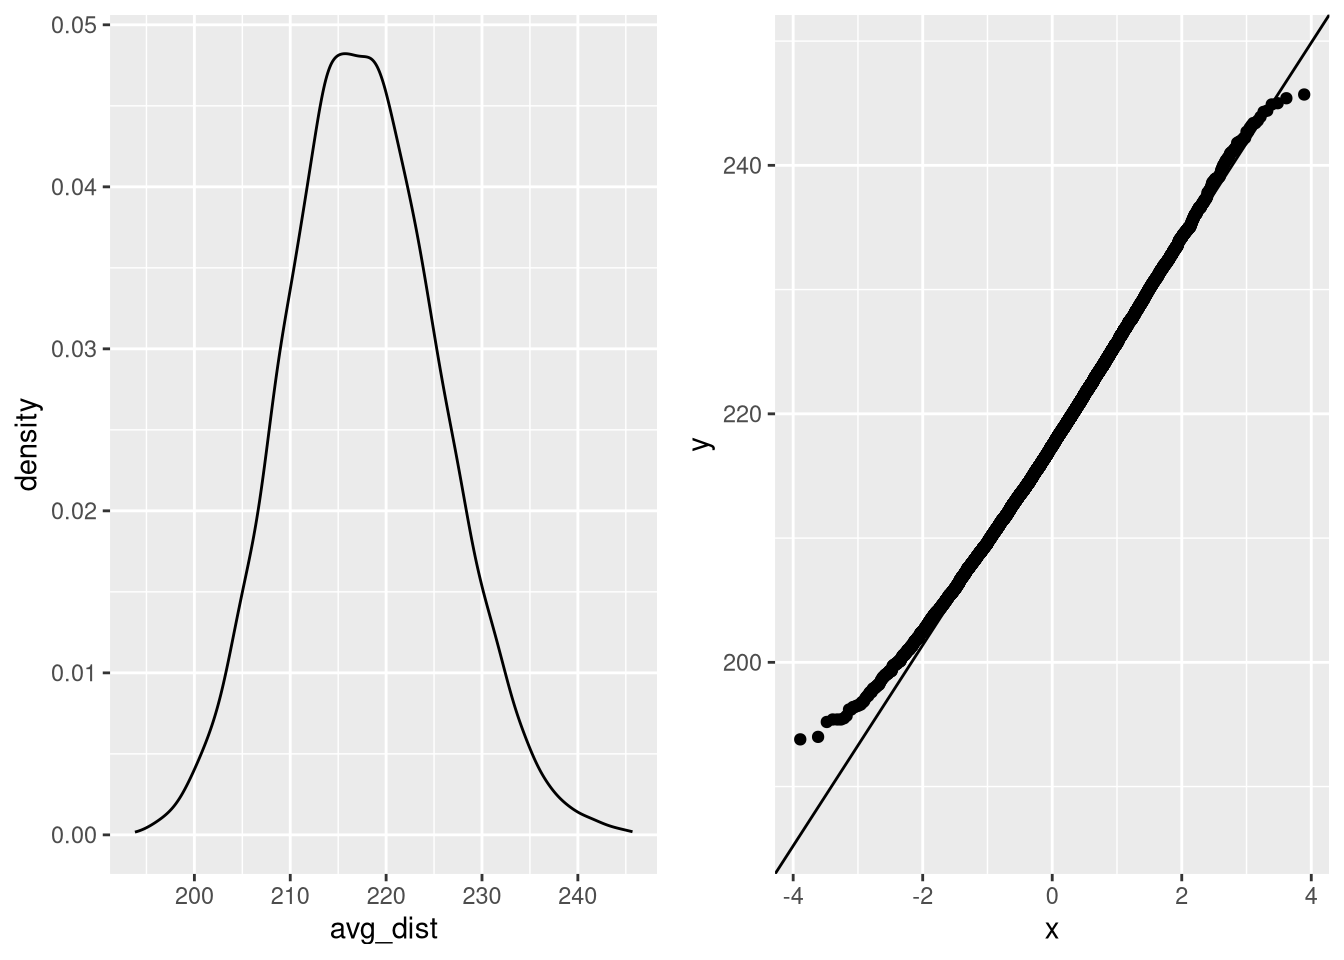
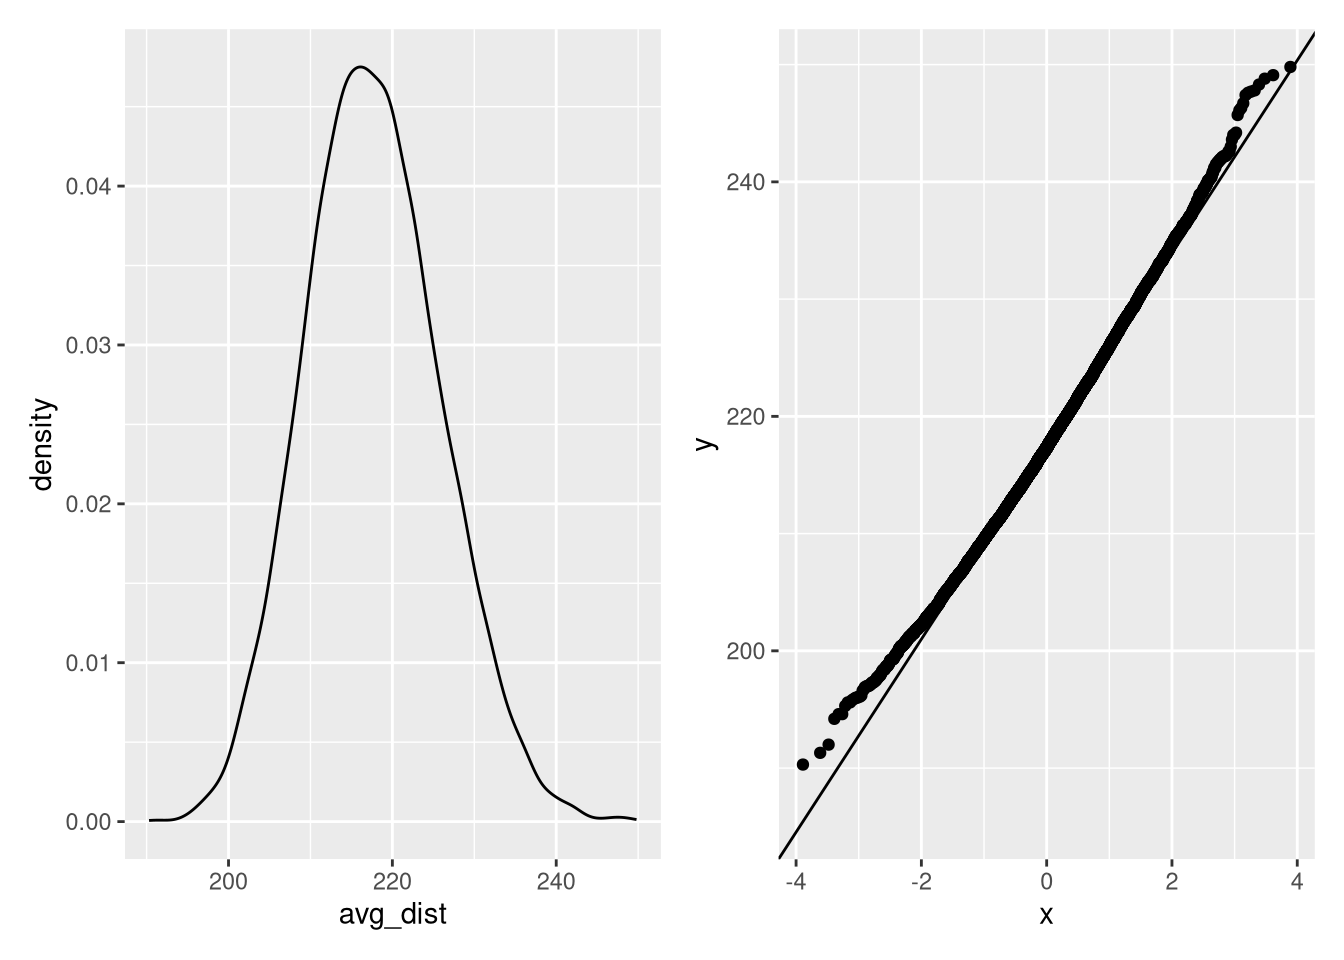
activity

diff --git a/docs/lab/25-continuous-probability-sol.html b/docs/lab/25-continuous-probability-sol.html
@@ -7,7 +7,7 @@
 <meta name="viewport" content="width=device-width, initial-scale=1.0, user-scalable=yes">
 
 
-<title>3.3.a - Class Activity – STAT 1080 - Fall 2026</title>
+<title>9.1.a - Class Activity – STAT 1080 - Fall 2026</title>
 <style>
 /* Default styles provided by pandoc.
 ** See https://pandoc.org/MANUAL.html#variables-for-html for config info.
@@ -114,7 +114,7 @@ pre > code.sourceCode > span > a:first-child::before { text-decoration: underlin
 }</script>
 
 
-<meta property="og:title" content="3.3.a - Class Activity – STAT 1080 - Fall 2026">
+<meta property="og:title" content="9.1.a - Class Activity – STAT 1080 - Fall 2026">
 <meta property="og:description" content="Homepage for STAT 1080 - Data and the Stories They Tell.">
 <meta property="og:image" content="https://srvanderplas.github.io/stat1080/lab/25-continuous-probability-sol_files/figure-html/unnamed-chunk-5-1.png">
 <meta property="og:site_name" content="STAT 1080 - Fall 2026">
@@ -427,7 +427,7 @@ pre > code.sourceCode > span > a:first-child::before { text-decoration: underlin
 
 <header id="title-block-header" class="quarto-title-block default">
 <div class="quarto-title">
-<h1 class="title">3.3.a - Class Activity</h1>
+<h1 class="title">9.1.a - Class Activity</h1>
 </div>
 
 
@@ -448,13 +448,13 @@ pre > code.sourceCode > span > a:first-child::before { text-decoration: underlin
 <div class="cell">
 <div class="code-copy-outer-scaffold"><div class="sourceCode cell-code" id="cb1"><pre class="sourceCode r code-with-copy"><code class="sourceCode r"><span id="cb1-1"><a href="#cb1-1" aria-hidden="true" tabindex="-1"></a><span class="fu">library</span>(tidyverse)</span>
 <span id="cb1-2"><a href="#cb1-2" aria-hidden="true" tabindex="-1"></a><span class="fu">library</span>(stat1080r)</span>
-<span id="cb1-3"><a href="#cb1-3" aria-hidden="true" tabindex="-1"></a><span class="fu">library</span>(gridExtra) <span class="co"># for making certain side-by-side plots.</span></span></code></pre></div><button title="Copy to Clipboard" class="code-copy-button"><i class="bi"></i></button></div>
+<span id="cb1-3"><a href="#cb1-3" aria-hidden="true" tabindex="-1"></a><span class="fu">library</span>(patchwork) <span class="co"># for making certain side-by-side plots.</span></span></code></pre></div><button title="Copy to Clipboard" class="code-copy-button"><i class="bi"></i></button></div>
 </div>
 <p>This assignment will use the <code>patient_hawkes</code> dataset from the <code>stat1080r</code> package. As always, you can use <code>head(patient_hawkes)</code> to observe the first six rows of this dataset. If you want the dataset to show up in your global environment (i.e., so it appears in the upper-right corner of your Rstudio), you can run the following chunk of code, which copies the dataset from the package to your global environment.</p>
 <div class="cell">
 <div class="code-copy-outer-scaffold"><div class="sourceCode cell-code" id="cb2"><pre class="sourceCode r code-with-copy"><code class="sourceCode r"><span id="cb2-1"><a href="#cb2-1" aria-hidden="true" tabindex="-1"></a><span class="co"># Not required for analysis, but may make the exploration of the data</span></span>
 <span id="cb2-2"><a href="#cb2-2" aria-hidden="true" tabindex="-1"></a><span class="co"># more convienent.</span></span>
-<span id="cb2-3"><a href="#cb2-3" aria-hidden="true" tabindex="-1"></a>patient_hawkes <span class="ot">&lt;-</span> patient_hawkes</span></code></pre></div><button title="Copy to Clipboard" class="code-copy-button"><i class="bi"></i></button></div>
+<span id="cb2-3"><a href="#cb2-3" aria-hidden="true" tabindex="-1"></a><span class="fu">data</span>(patient_hawkes, <span class="at">package=</span><span class="st">"stat1080r"</span>)</span></code></pre></div><button title="Copy to Clipboard" class="code-copy-button"><i class="bi"></i></button></div>
 </div>
 <p>Remember also that you can get a sense of what variables exist in this dataset by running <code>?patient_hawkes</code> in your console. This will open a help page in the lower-right corner of Rstudio.</p>
 <section id="problem" class="level1" data-number="1">
@@ -538,12 +538,12 @@ pre > code.sourceCode > span > a:first-child::before { text-decoration: underlin
 <span id="cb10-7"><a href="#cb10-7" aria-hidden="true" tabindex="-1"></a><span class="co"># created the female_c vector).</span></span>
 <span id="cb10-8"><a href="#cb10-8" aria-hidden="true" tabindex="-1"></a><span class="fu">get_avg</span>(female_c, <span class="at">n =</span> <span class="dv">5</span>)</span></code></pre></div><button title="Copy to Clipboard" class="code-copy-button"><i class="bi"></i></button></div>
 <div class="cell-output cell-output-stdout">
-<pre><code>[1] 236.4</code></pre>
+<pre><code>[1] 203.2</code></pre>
 </div>
 <div class="code-copy-outer-scaffold"><div class="sourceCode cell-code" id="cb12"><pre class="sourceCode r code-with-copy"><code class="sourceCode r"><span id="cb12-1"><a href="#cb12-1" aria-hidden="true" tabindex="-1"></a><span class="co"># Now the same function, but with a sample of 10</span></span>
 <span id="cb12-2"><a href="#cb12-2" aria-hidden="true" tabindex="-1"></a><span class="fu">get_avg</span>(female_c, <span class="at">n =</span> <span class="dv">10</span>)</span></code></pre></div><button title="Copy to Clipboard" class="code-copy-button"><i class="bi"></i></button></div>
 <div class="cell-output cell-output-stdout">
-<pre><code>[1] 219.9</code></pre>
+<pre><code>[1] 214.8</code></pre>
 </div>
 </div>
 <p>Note that you will get a different number every time you run your function since you are doing a random simulation. Please create a vector of 10,000 sample averages for n = 10. Please consult the in-class examples that use the <code>replicate()</code> function for guidance.</p>
@@ -555,7 +555,7 @@ pre > code.sourceCode > span > a:first-child::before { text-decoration: underlin
 </section>
 <section id="problem-5" class="level1" data-number="6">
 <h1 data-number="6"><span class="header-section-number">6</span> Problem</h1>
-<p>We now want to visualize the distribution of the simulated averages that we created on the previous problem. The following code shows you how to create a density plot of the averages. Note that <code>f_avg</code> is a vector, and not a dataframe. The first line in the code chunk below shows you how to put your vector into a dataframe before trying to use ggplot. This code also makes use of the <code>gridExtra</code> package to place two plots side by side.</p>
+<p>We now want to visualize the distribution of the simulated averages that we created on the previous problem. The following code shows you how to create a density plot of the averages. Note that <code>f_avg</code> is a vector, and not a dataframe. The first line in the code chunk below shows you how to put your vector into a dataframe before trying to use ggplot. This code also makes use of the <code>patchwork</code> package to place two plots side by side.</p>
 <div class="cell">
 <div class="code-copy-outer-scaffold"><div class="sourceCode cell-code" id="cb15"><pre class="sourceCode r code-with-copy"><code class="sourceCode r"><span id="cb15-1"><a href="#cb15-1" aria-hidden="true" tabindex="-1"></a>tdf <span class="ot">&lt;-</span> <span class="fu">data.frame</span>(<span class="at">avg_dist =</span> f_avg)</span>
 <span id="cb15-2"><a href="#cb15-2" aria-hidden="true" tabindex="-1"></a></span>
@@ -568,7 +568,7 @@ pre > code.sourceCode > span > a:first-child::before { text-decoration: underlin
 <span id="cb15-9"><a href="#cb15-9" aria-hidden="true" tabindex="-1"></a>  <span class="fu">geom_qq</span>() <span class="sc">+</span></span>
 <span id="cb15-10"><a href="#cb15-10" aria-hidden="true" tabindex="-1"></a>  <span class="fu">geom_qq_line</span>()</span>
 <span id="cb15-11"><a href="#cb15-11" aria-hidden="true" tabindex="-1"></a></span>
-<span id="cb15-12"><a href="#cb15-12" aria-hidden="true" tabindex="-1"></a><span class="fu">grid.arrange</span>(p1, p2, <span class="at">nrow =</span> <span class="dv">1</span>)</span></code></pre></div><button title="Copy to Clipboard" class="code-copy-button"><i class="bi"></i></button></div>
+<span id="cb15-12"><a href="#cb15-12" aria-hidden="true" tabindex="-1"></a>p1 <span class="sc">+</span> p2</span></code></pre></div><button title="Copy to Clipboard" class="code-copy-button"><i class="bi"></i></button></div>
 <div class="cell-output-display">
 <div>
 <figure class="figure">

diff --git a/docs/weeks/week-090.html b/docs/weeks/week-090.html
@@ -415,6 +415,7 @@ ul.task-list li input[type="checkbox"] {
 <ul>
 <li><a href="https://usu.instructure.com/courses/819584/assignments/5293067" target="_blank">Attendance Quiz 10/26</a></li>
 <li><a href="../slides/25-cts-prob.html" target="_blank">Continuous Probability</a></li>
+<li><a href="https://usu.instructure.com/courses/819584/quizzes/1462841" target="_blank">Activity 9.1.a Continuous Probability</a>, <a href="../lab/_25-continuous-probability.qmd">qmd template</a>, <a href="../lab/25-continuous-probability.html">html</a>, <a href="../lab/25-continuous-probability-sol.html">solutions</a></li>
 </ul>
 </section>
 <section id="wednesday" class="level2">

diff --git a/docs/lab/25-continuous-probability.html b/docs/lab/25-continuous-probability.html
@@ -114,7 +114,7 @@ pre > code.sourceCode > span > a:first-child::before { text-decoration: underlin
 }</script>
 
 
-<meta property="og:title" content="3.3.a - Class Activity – STAT 1080 - Fall 2026">
+<meta property="og:title" content="9.1.a - Class Activity – STAT 1080 - Fall 2026">
 <meta property="og:description" content="Homepage for STAT 1080 - Data and the Stories They Tell.">
 <meta property="og:image" content="https://srvanderplas.github.io/stat1080/lab/25-continuous-probability_files/figure-html/unnamed-chunk-6-1.png">
 <meta property="og:site_name" content="STAT 1080 - Fall 2026">
